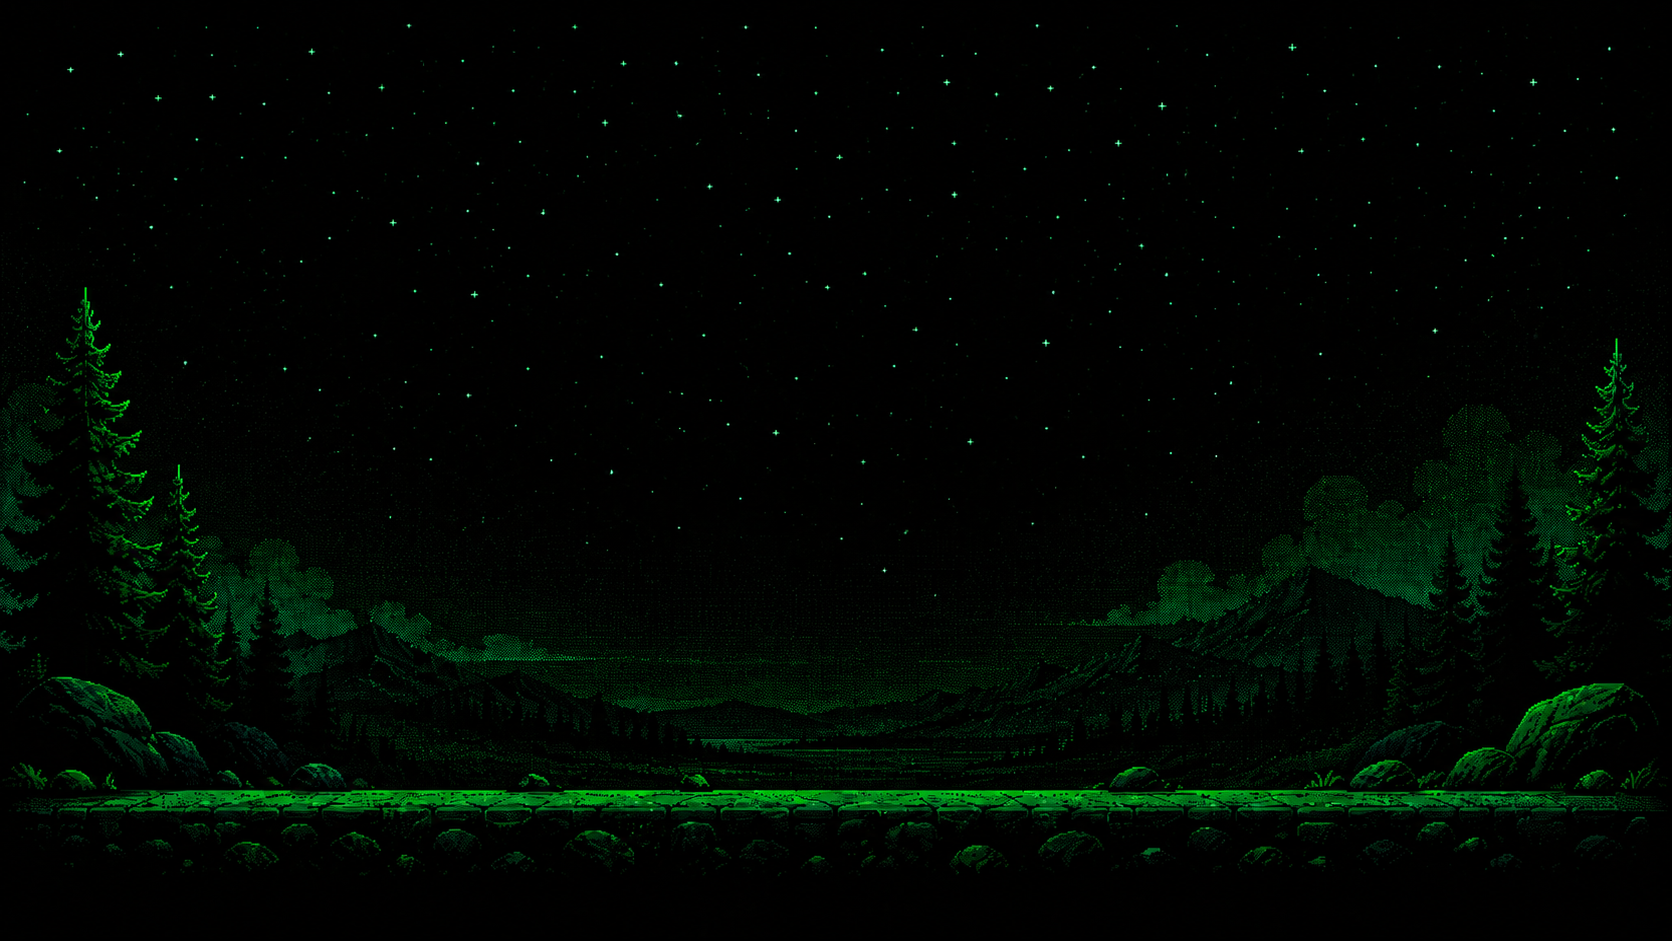
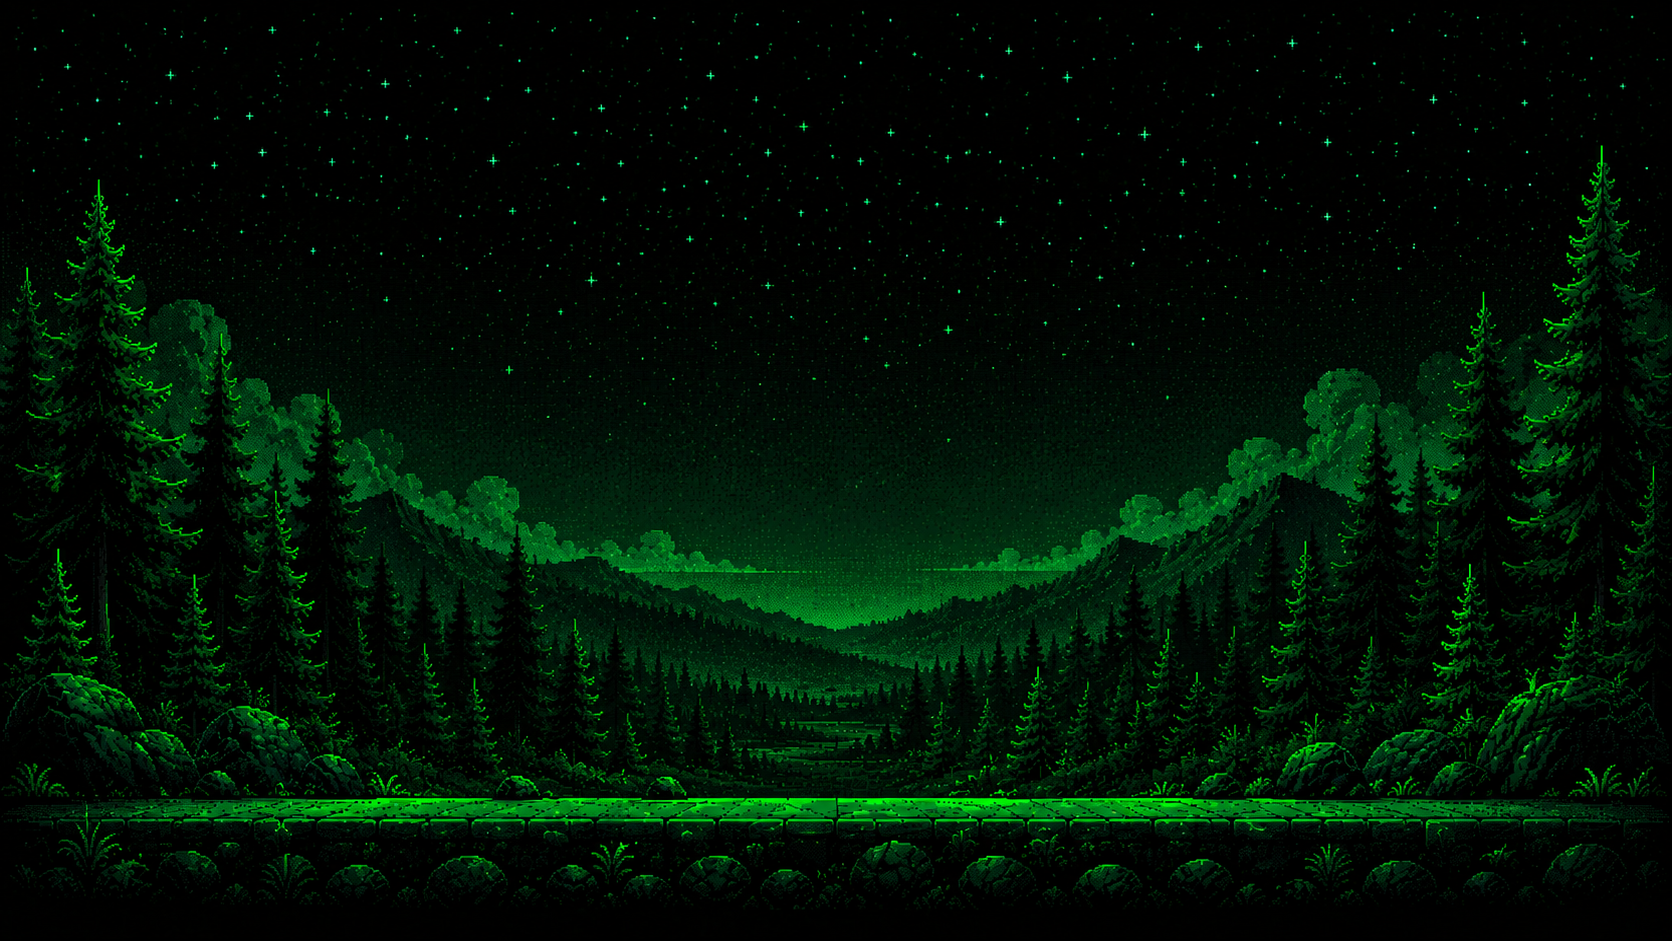
animation polish

Changed region(s): [[0.0, 0.1541, 1.0, 0.9554]]

diff --git a/app/globals.css b/app/globals.css
@@ -162,6 +162,33 @@ dd {
   border-radius: 999px;
 }
 
+/* ── Full-panel Home background with mask-based gradient ── */
+.home-panel-bg {
+  position: absolute;
+  inset: 0;
+  z-index: 0;
+  pointer-events: none;
+  background-image: url("/backgrounds/bg2.png");
+  background-size: cover;
+  background-position: center bottom;
+  background-repeat: no-repeat;
+  opacity: 1;
+  mask-image: linear-gradient(
+    to bottom,
+    rgba(0, 0, 0, var(--home-bg-top, 0.04)) 0%,
+    rgba(0, 0, 0, var(--home-bg-upper, 0.08)) 28%,
+    rgba(0, 0, 0, var(--home-bg-mid, 0.22)) 55%,
+    rgba(0, 0, 0, var(--home-bg-bottom, 0.85)) 100%
+  );
+  -webkit-mask-image: linear-gradient(
+    to bottom,
+    rgba(0, 0, 0, var(--home-bg-top, 0.04)) 0%,
+    rgba(0, 0, 0, var(--home-bg-upper, 0.08)) 28%,
+    rgba(0, 0, 0, var(--home-bg-mid, 0.22)) 55%,
+    rgba(0, 0, 0, var(--home-bg-bottom, 0.85)) 100%
+  );
+}
+
 .walking-scene {
   position: absolute;
   left: 0;
@@ -198,7 +225,20 @@ dd {
     rgba(0, 0, 0, var(--bg-dark-mid)) 50%,
     rgba(0, 0, 0, var(--bg-dark-bottom)) 100%
   );
+  /* Feather the top edge so it doesn't create a hard line */
+  mask-image: linear-gradient(
+    to bottom,
+    transparent 0%,
+    black 25%
+  );
+  -webkit-mask-image: linear-gradient(
+    to bottom,
+    transparent 0%,
+    black 25%
+  );
 }
+
+/* walking-upward-fade removed — replaced by .home-panel-bg full-panel mask */
 
 .path-line {
   position: absolute;

diff --git a/app/page.tsx b/app/page.tsx
@@ -1,6 +1,6 @@
 "use client";
 
-import { useMemo, useState } from "react";
+import { useMemo, useState, type CSSProperties } from "react";
 import BackgroundScene from "@/components/BackgroundScene";
 import {
   AboutTab,
@@ -49,6 +49,8 @@ const panelMeta: Record<TabId, { label: string; command: string }> = {
 export default function Home() {
   const [activeTab, setActiveTab] = useState<TabId>("home");
   const showWalkingScene = activeTab === "home" || activeTab === "contact";
+  const panelBackgroundClass =
+    activeTab === "home" ? "bg-transparent" : "bg-black/[0.92]";
 
   const activeContent = useMemo(() => {
     switch (activeTab) {
@@ -77,8 +79,21 @@ export default function Home() {
       <BackgroundScene />
       <div className="relative z-10 mx-auto grid w-full max-w-[1500px] grid-cols-1 gap-5 px-4 py-4 sm:px-6 lg:h-screen lg:grid-cols-[280px_minmax(0,1fr)] lg:gap-8 lg:overflow-hidden lg:px-10 lg:py-8 xl:px-12">
         <Sidebar activeTab={activeTab} setActiveTab={setActiveTab} />
-        <section className="terminal-card relative min-w-0 overflow-hidden rounded-md border border-emerald-500/40 bg-black/[0.92] shadow-terminal lg:h-[calc(100vh-4rem)]">
-          <div className="flex flex-wrap items-start justify-between gap-3 border-b border-terminal-line/35 p-4 sm:p-5">
+        <section
+          className={`terminal-card relative min-w-0 overflow-hidden rounded-md border border-emerald-500/40 ${panelBackgroundClass} shadow-terminal lg:h-[calc(100vh-4rem)]`}
+          style={
+            activeTab === "home"
+              ? ({
+                  "--home-bg-top": "0.04",
+                  "--home-bg-upper": "0.08",
+                  "--home-bg-mid": "0.22",
+                  "--home-bg-bottom": "0.85",
+                } as CSSProperties)
+              : undefined
+          }
+        >
+          {activeTab === "home" && <div className="home-panel-bg" />}
+          <div className="relative z-10 flex flex-wrap items-start justify-between gap-3 border-b border-terminal-line/35 p-4 sm:p-5">
             <div className="min-w-0">
               <p className="text-xs font-semibold uppercase tracking-[0.18em] text-terminal-glow">
                 {meta.label}
@@ -89,10 +104,10 @@ export default function Home() {
               active: {activeTab}
             </span>
           </div>
-          <div className="h-full min-w-0 overflow-x-hidden overflow-y-auto p-4 sm:p-5 lg:h-[calc(100%-76px)]">
+          <div className="relative z-10 h-full min-w-0 overflow-x-hidden overflow-y-auto p-4 sm:p-5 lg:h-[calc(100%-76px)]">
             <div
               key={activeTab}
-              className={`active-panel min-w-0 ${showWalkingScene ? "pb-[220px]" : ""}`}
+              className={`active-panel relative z-10 min-w-0 ${showWalkingScene ? "pb-[220px]" : ""}`}
             >
               {activeContent}
             </div>

diff --git a/components/WalkingScene.tsx b/components/WalkingScene.tsx
@@ -7,7 +7,7 @@ const GOAL_SEQUENCE = [0, 1, 2, 3, 4];
 const SHEET_COLUMNS = 5;
 const WRAP_OFFSET = 120;
 const START_X = 80;
-const GAP = 220;
+const GAP = 100;
 const SPEED_PX_PER_SECOND = 72;
 
 export function WalkingScene() {
@@ -97,11 +97,11 @@ export function WalkingScene() {
             - Increase --scene-height if characters get clipped
           */
           "--scene-height": "220px",
-          "--path-bottom": "54px",
+          "--path-bottom": "65px",
           "--guy-size": "104px",
-          "--goal-size": "96px",
+          "--goal-size": "150px",
           "--portal-height": "74px",
-          "--bg-opacity": "0.58",
+          "--bg-opacity": "0.25",
           "--bg-height": "175px",
           "--bg-dark-top": "0.28",
           "--bg-dark-mid": "0.10",

diff --git a/components/PortfolioTabs.tsx b/components/PortfolioTabs.tsx
@@ -68,7 +68,7 @@ export function HomeTab({ setActiveTab }: HomeTabProps) {
       </div>
       <div className="rounded border border-emerald-500/35 bg-black/90 p-4 text-xs leading-6 text-terminal-dim">
         <p className="text-terminal-glow">&gt; loading identity...</p>
-        <p>name: Khalil Asaad Mustafa</p>
+        <p>name: Khalil Mustafa</p>
         <p>track: backend / mobile / cloud</p>
         <p>cert: AWS Cloud Practitioner</p>
         <p className="mt-2 text-terminal-glow">&gt; status: ready</p>

diff --git a/components/Sidebar.tsx b/components/Sidebar.tsx
@@ -23,7 +23,7 @@ export function Sidebar({ activeTab, setActiveTab }: SidebarProps) {
           <div className="grid h-14 w-14 shrink-0 place-items-center overflow-hidden border border-terminal-glow/70 bg-terminal-glow/5 shadow-[0_0_24px_rgba(55,255,120,0.16)]">
             <Image
               src="/logo.png"
-              alt="Khalil Asaad Mustafa logo"
+              alt="Khalil Mustafa logo"
               width={56}
               height={56}
               priority

diff --git a/data/portfolio.ts b/data/portfolio.ts
@@ -23,7 +23,7 @@ export type Project = {
 };
 
 export const profile = {
-  name: "Khalil Asaad Mustafa",
+  name: "Khalil Mustafa",
   title:
     "Third-Year Computer Science Student | Backend & Mobile Developer | AWS Certified Cloud Practitioner",
   location: "Amman, Jordan / Valencia, Spain",